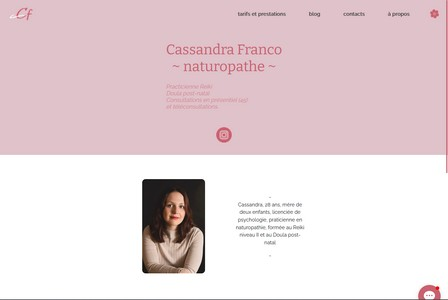
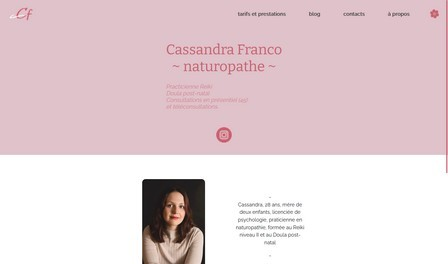
adding some metas and fixing responsive elements

diff --git a/styles.css b/styles.css
@@ -13,12 +13,6 @@
     color: white;
 }
 
-header {
-    height: 100vh;
-    width: 100vw;
-    background: var(--mainBGColor);
-}
-
 /********** NAVBAR */
 .navbar {
     position: absolute;
@@ -106,22 +100,18 @@ header {
     .navbar .menuBtn {
         display: block;
     }
-
-    .navbar .logo {
-        position: absolute;
-        top: 30px;
-        left: 30px;
-        position: fixed;
-    }
 }
 
 /********** HEADER */
 header {
-    height: 100vh;
-    width: 100vw;
+    height: 87svh;
+    width: 100svw;
+    background: var(--mainBGColor);
     display: flex;
+    flex-direction: column;
     justify-content: center;
     align-items: center;
+    gap: 10svh;
 }
 
 .headerTitle .headerMainTitle {
@@ -153,9 +143,13 @@ header {
 }
 
 /********** MAIN > PRESENTATION */
-.presentation, .hobbies, .portfolio, .experiences, .workXP, .contacts {
+.presentation,
+.hobbies,
+.portfolio,
+.experiences,
+.workXP,
+.contacts {
     background-color: var(--mainBGColor);
-    height: auto;
     color: white;
     line-height: 160%;
     padding: 5%;
@@ -174,7 +168,7 @@ header {
 .experiences .expHeaderBox .expTitle,
 .workXP .workXPHeaderBox .workXPTitle,
 .contacts .contactsHeaderBox .contactsHeaderTitle {
-    margin: 5% 0 2% 0;
+    margin: 10% 0 5% 0;
     color: var(--mainTitles);
 }
 
@@ -264,6 +258,7 @@ header {
     grid-template-areas: "one" "two" "three" "four";
     gap: 5%;
     width: 90%;
+    height: 50vh;
 }
 
 .hobbiesBox1 {
@@ -285,7 +280,7 @@ header {
 .hobbiesBoxes .hobbiesBox {
     border: 1px solid var(--mainTitles);
     border-radius: 10px;
-    padding: 5%;
+    padding: 3%;
     margin: 5%;
     text-align: center;
 }
@@ -300,16 +295,13 @@ header {
 }
 
 /* portfolio boxes */
-.xps {
-    width: 80%;
-}
-
 .portfolio .portfolioXPs {
     display: grid;
     grid-template-columns: 1fr;
     grid-template-rows: 1fr 1fr 1fr 1fr 1fr 1fr;
     grid-template-areas: "a" "b" "c" "d" "e" "f";
-    gap: 5%;
+    margin-top: 5%;
+    gap: 2%;
 }
 
 .portfolioXP1 {
@@ -318,6 +310,10 @@ header {
 
 .portfolioXP2 {
     grid-area: "b";
+}
+
+.portfolioXP2 .portfolioXPContent img {
+    border: 1px solid var(--mainTitles);
 }
 
 .portfolioXP3 {
@@ -334,10 +330,6 @@ header {
 
 .portfolioXP6 {
     grid-area: "f";
-}
-
-.portfolio .portfolioXPs .portfolioXP {
-    margin: 10% 0;
 }
 
 .portfolio .portfolioXPs .portfolioXP .portfolioXPContent {
@@ -357,6 +349,11 @@ header {
 }
 
 /* MAIN > EXPERIENCES */
+.xps {
+    width: 80%;
+    margin-top: 5%;
+}
+
 .experiences .xps .xpBox .xpTitle {
     background: linear-gradient(to left, var(--mainBGColor) 0%, var(--mainBGColor) 30%, var(--mainTitles) 100%);
     padding: 1%;
@@ -385,7 +382,7 @@ header {
 
 .workXP p {
     text-align: center;
-    margin: 0 5%;
+    margin: 5% 0 0;
 }
 
 /********** FOOTER > CONTACTS */
@@ -394,6 +391,7 @@ footer .contacts .contactsBoxes {
     justify-content: space-evenly;
     align-items: center;
     width: 100%;
+    margin-top: 5%;
 }
 
 footer .contacts .contactsBoxes .contactBox .contactImg {
@@ -430,21 +428,31 @@ footer .contacts .contactsBoxes .contactBox .contactImg:hover {
         grid-template-columns: 1fr 1fr;
         grid-template-rows: 1fr 1fr;
         grid-template-areas: "one two" "three four";
+        height: fit-content;
     }
+
+    .hobbiesBox {
+        height: 10svh;
+        display: flex;
+        justify-content: center;
+        align-items: center;
+    }
+
+    /* titles */
+    .presentation .presHeader .presHeaderTitle,
+    .presMainAssets .presMainAssetsBox .presMainAssetsTitle,
+    .hobbies .hobbiesHeaderBox .hobbiesTitle,
+    .portfolio .portfolioHeaderBox .portfolioTitle,
+    .experiences .expHeaderBox .expTitle,
+    .workXP .workXPHeaderBox .workXPTitle,
+    .contacts .contactsHeaderBox .contactsHeaderTitle {
+        margin: 5% 0 3% 0;
+    }
+
 }
 
 /* md */
 @media screen and (min-width: 768px) {
-    header {
-        height: 50vh;
-    }
-
-    .portfolio .portfolioXPs {
-        grid-template-columns: 1fr 1fr;
-        grid-template-rows: 1fr 1fr 1fr;
-        grid-template-areas: "a b" "c d" "e f";
-    }
-
     .portfolio .portfolioXPs .portfolioXP {
         display: flex;
         flex-direction: column;
@@ -458,14 +466,29 @@ footer .contacts .contactsBoxes .contactBox .contactImg:hover {
 }
 
 /* lg */
+@media screen and (min-width: 1050px) {
+    .portfolio .portfolioXPs {
+        grid-template-columns: 1fr 1fr;
+        grid-template-rows: 1fr 1fr 1fr;
+        grid-template-areas: "a b" "c d" "e f";
+    }
+}
+
+/* xl */
 @media screen and (min-width: 1312px) {
-    .navbar, header, .presHeader, .navbar, main, footer {
+
+    .navbar,
+    header,
+    .presHeader,
+    .navbar,
+    main,
+    footer {
         width: 65%;
         margin: 0 auto;
     }
 
     .navbar {
-        position: static;
+        position: sticky;
     }
 
     html {
@@ -474,5 +497,14 @@ footer .contacts .contactsBoxes .contactBox .contactImg:hover {
 
     .up {
         width: 5%;
+    }
+
+    .presentation,
+    .hobbies,
+    .portfolio,
+    .experiences,
+    .workXP,
+    .contacts {
+        padding: 2%;
     }
 }

diff --git a/index.html b/index.html
@@ -7,7 +7,10 @@
     <meta name="viewport" content="width=device-width, initial-scale=1.0">
     <link rel="stylesheet" href="./styles.css">
     <link rel="shortcut icon" href="./assets/img/hands-and-gestures.png" type="image/x-icon">
-    <title>Portfolio - Julie Lépine</title>
+    <title>Portfolio - Julie Lépine</title>    
+    <meta type="description"
+    content="Bienvenue sur ce portfolio, je suis Julie Lépine, étudiante et développeuse web sur Nantes.">
+    <meta name="keywords" content="portfolio, developpement web, front-end, full stack, javascript, html, css, bootstrap, wordpress, formation, experiences">
 </head>
 
 <body id="top">
@@ -27,6 +30,11 @@
         <div class="headerTitle">
             <h2 class="headerMainTitle">Développeuse web</h2>
             <h3 class="headerSecondTitle">front-end</h3>
+        </div>
+        <div>
+            <a href="#presentation">
+                <img src="./assets/img/down-arrow.png" alt="descendre dans la page" width="50px">
+            </a> 
         </div>
     </header>
 
@@ -51,7 +59,7 @@
                     <h2 class="presMainAssetsTitle">Quelques points forts</h2>
                     <div class="titlesBar"></div>
                 </div>
-                <p class="presMainAssetsAssets">Travail d'équipe - Gestion de projets <br> Dynamisme - Curiosité <br>Débrouillardisme - Polyvalence</p>
+                <p class="presMainAssetsAssets">Travail d'équipe - Gestion de projets <br> Dynamisme - Curiosité <br>Débrouillardise - Polyvalence</p>
             </div>
         </section>
 
@@ -78,15 +86,15 @@
                     <div class="portfolioXPContent">
                         <a href="https://julie-lepine.github.io/cassandra-franco/" target="_blank"><img src="./assets/img/cfranco.jpg" alt="site de cassandra franco"></a> 
                     </div>
-                    <p class="portfolioXPContentTxt">Le site de Cassandra Franco, naturopathe (en cours de publication).</p>
+                    <p class="portfolioXPContentTxt">Le site de Cassandra Franco, naturopathe (bientot publié).</p>
                     <p class="portfolioXPLangages">#HTML #CSS #JAVASCRIPT</p>
                 </div>
                 <div class="portfolioXP portfolioXP2">
                     <div class="portfolioXPContent">
-                        <a href="http://enfantsdurwanda.eklablog.com/" target="_blank"><img src="./assets/img/edr.jpg" alt="blog d'enfants du rwanda"></a> 
+                        <a href="https://aditattoo.wordpress.com//" target="_blank"><img src="./assets/img/adi-tats.jpg" alt="site adi Tattoo"></a> 
                     </div>
-                    <p>Mise en forme du blog Enfants du Rwanda sur EklaBlog <br> (soon : création du blog sur WordPress).</p>
-                    <p class="portfolioXPLangages">#MAQUETTAGE #EKLABLOG</p>
+                    <p>Création du site d'Adi Tattoo.</p>
+                    <p class="portfolioXPLangages">#MAQUETTAGE #WORDPRESS</p>
                 </div>
                 <div class="portfolioXP portfolioXP3">
                     <div class="portfolioXPContent">
